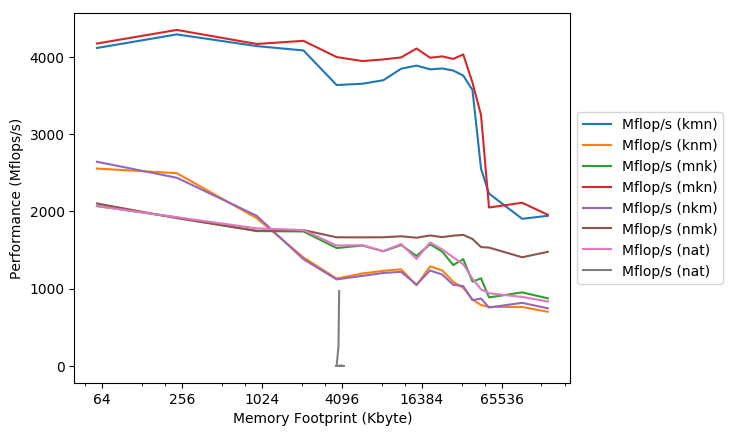
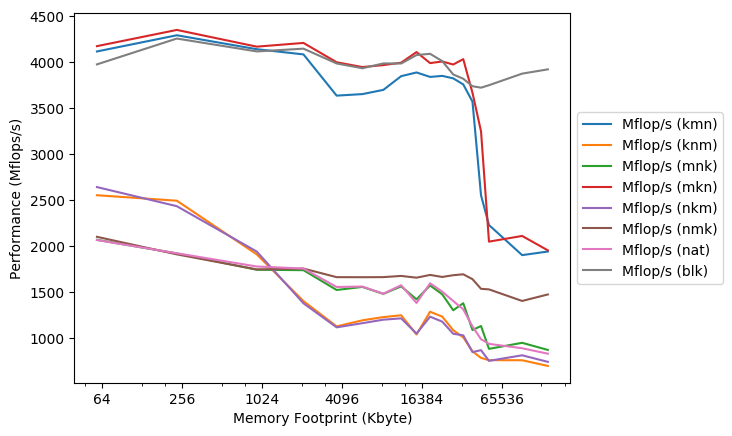
Updated viz.py

diff --git a/viz.py b/viz.py
@@ -47,8 +47,8 @@ df8 = pd.read_csv('data/%s/%s/lib.%s.gcc.dat'%(cc, opt, opt),delim_whitespace=Tr
     .drop(['dummy','permutation', 'error'],axis=1)                                                    
 '''
 df9 = pd.read_csv('data/%s/%s/blk.%s.gcc.dat'%(cc, opt, opt),delim_whitespace=True,header=None,
-    names=['memory','Mflop/s (nat)', 'error', 'dummy', 'permutation'])\
-    .drop(['dummy','permutation', 'error'],axis=1)
+    names=['memory','Mflop/s (blk)', 'error', 'dummy', 'permutation', 'block'])\
+    .drop(['dummy','permutation', 'error', 'block'],axis=1)
         
 		
 plt.figure()
